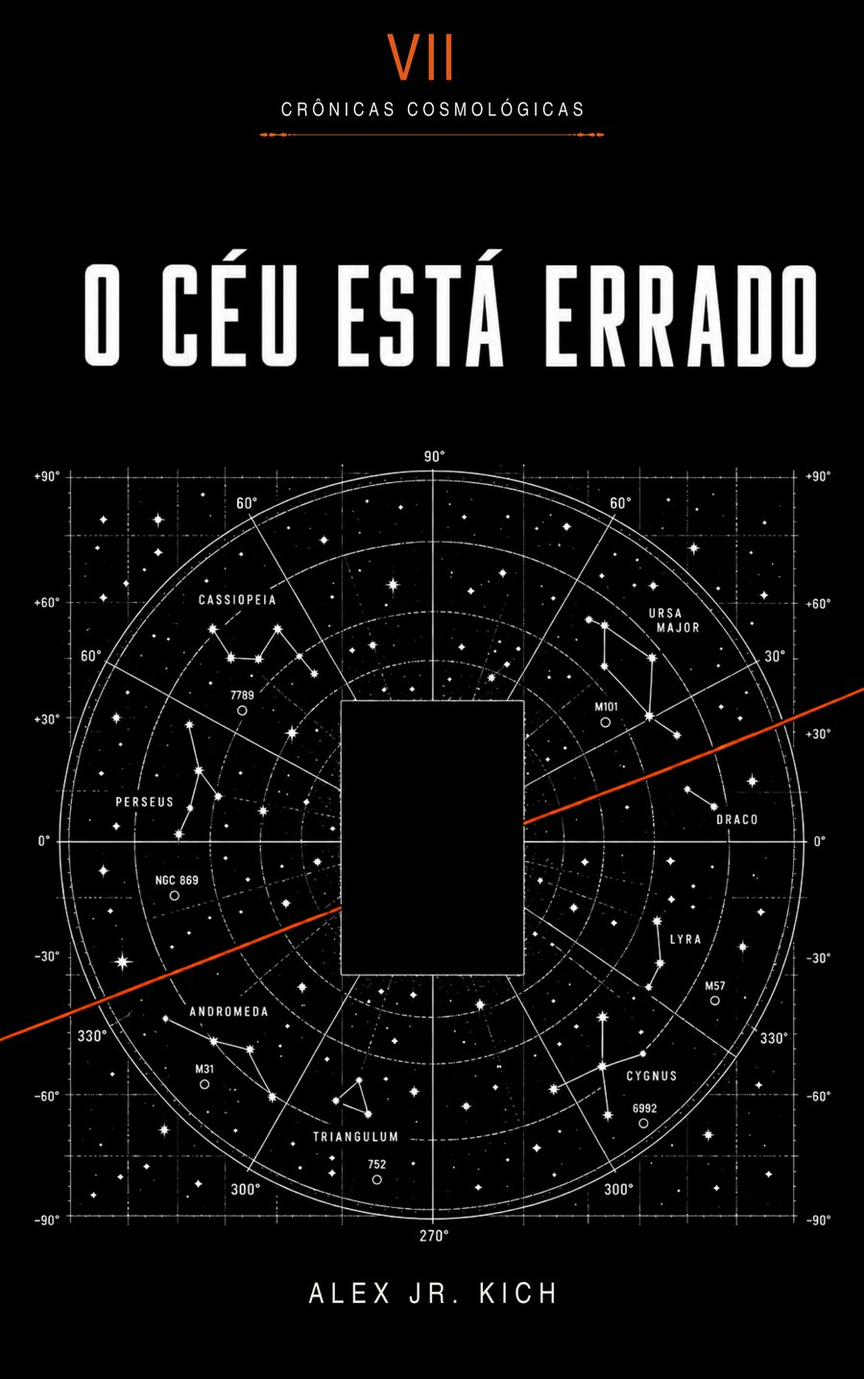
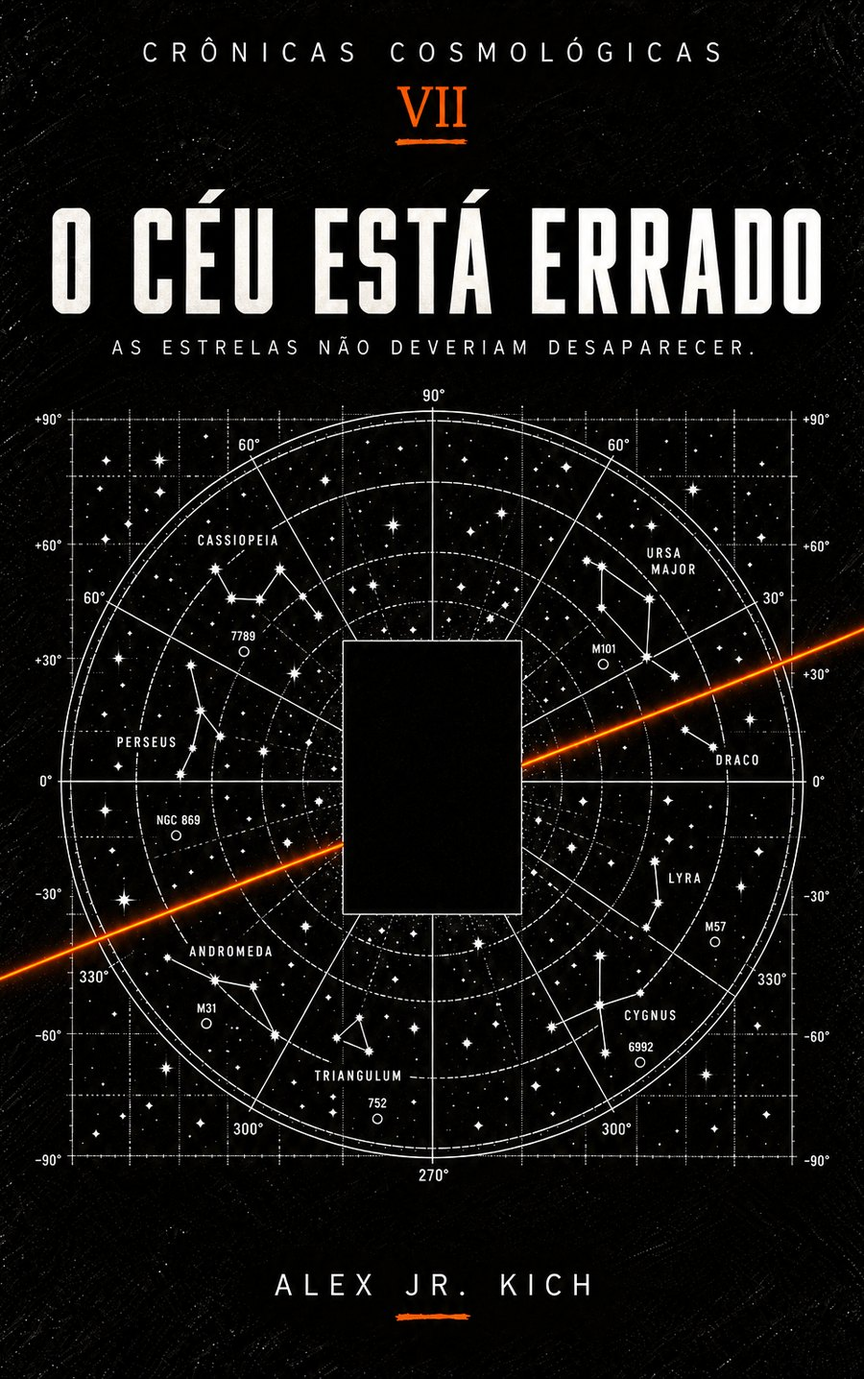
Capas novas V, VII, VIII, IX e X (PT e EN); titulo EN do IX vira NO WORD FOR IT

diff --git a/en/chronicles/nao-tem-a-palavra/index.html b/en/chronicles/nao-tem-a-palavra/index.html
@@ -3,7 +3,7 @@
 <head>
   <meta charset="UTF-8" />
   <meta name="viewport" content="width=device-width, initial-scale=1.0" />
-  <title>THERE IS NO WORD · Cosmological Chronicles · SINAL/RUÍDO</title>
+  <title>NO WORD FOR IT · Cosmological Chronicles · SINAL/RUÍDO</title>
   <meta name="description" content="Nara Guedes finds a word that no longer exists.
 
 The last person able to pronounce it belongs to a language on the verge of disappearing. For linguistics this would already be an urgency: when the las" />
@@ -14,7 +14,7 @@ The last person able to pronounce it belongs to a language on the verge of disap
   <link rel="alternate" hreflang="pt-BR" href="https://sinalruido.com.br/livros/nao-tem-a-palavra/" />
   <link rel="alternate" hreflang="en" href="https://sinalruido.com.br/en/chronicles/nao-tem-a-palavra/" />
   <link rel="alternate" hreflang="x-default" href="https://sinalruido.com.br/livros/nao-tem-a-palavra/" />
-  <meta property="og:title" content="THERE IS NO WORD · Cosmological Chronicles · SINAL/RUÍDO" />
+  <meta property="og:title" content="NO WORD FOR IT · Cosmological Chronicles · SINAL/RUÍDO" />
   <meta property="og:description" content="Nara Guedes finds a word that no longer exists.
 
 The last person able to pronounce it belongs to a language on the verge of disappearing. For linguistics this would already be an urgency: when the las" />
@@ -22,11 +22,11 @@ The last person able to pronounce it belongs to a language on the verge of disap
   <meta property="og:url" content="https://sinalruido.com.br/en/chronicles/nao-tem-a-palavra/" />
   <meta property="og:site_name" content="SINAL/RUÍDO" />
   <meta property="og:locale" content="en_US" />
-  <meta property="og:image" content="https://sinalruido.com.br/livros/nao-tem-a-palavra.jpg" />
+  <meta property="og:image" content="https://sinalruido.com.br/livros/nao-tem-a-palavra-en.jpg" />
   <meta property="og:image:width" content="1200" />
   <meta property="og:image:height" content="630" />
   <meta name="twitter:card" content="summary_large_image" />
-  <meta name="twitter:image" content="https://sinalruido.com.br/livros/nao-tem-a-palavra.jpg" />
+  <meta name="twitter:image" content="https://sinalruido.com.br/livros/nao-tem-a-palavra-en.jpg" />
   <link rel="preconnect" href="https://fonts.googleapis.com" />
   <link rel="preconnect" href="https://fonts.gstatic.com" crossorigin />
   <link rel="stylesheet" href="https://fonts.googleapis.com/css2?family=Oswald:wght@600;700&display=swap" />
@@ -66,13 +66,13 @@ The last person able to pronounce it belongs to a language on the verge of disap
           <a href="/livros/nao-tem-a-palavra/" class="mono" style="color:var(--muted)" hreflang="pt-BR">← Versão em português</a>
         </div>
         <div class="book-sheet__hero">
-          <img class="book-sheet__cover" src="/livros/nao-tem-a-palavra.jpg" alt="Cover of THERE IS NO WORD" width="450" height="720" />
+          <img class="book-sheet__cover" src="/livros/nao-tem-a-palavra-en.jpg" alt="Cover of NO WORD FOR IT" width="450" height="720" />
           <div>
             <span class="badge" style="border-color:var(--signal);color:var(--signal)">IX · In development</span>
-            <h1 style="margin-top:12px">THERE IS NO WORD</h1>
+            <h1 style="margin-top:12px">NO WORD FOR IT</h1>
             <p class="mono" style="margin-top:8px;color:var(--signal)">Alex Jr. Kich</p>
             <p class="book-sheet__tagline" style="margin-top:14px;font-style:italic;color:var(--muted)">Some things disappear when they stop having a name.</p>
-            <div class="book-sheet__synopsis"><p>Nara Guedes finds a word that no longer exists.</p><p>The last person able to pronounce it belongs to a language on the verge of disappearing. For linguistics this would already be an urgency: when the last speaker dies, what is lost is not just a set of sounds but a specific way of organizing the world.</p><p>Then the word produces an impossible effect.</p><p>For 1.7 seconds, something called Valandor opens.</p><p>No one knows whether the word names the place, creates the access, describes a condition or merely coincides with the phenomenon. Nara must work on dangerous ground because any attempt at translation may destroy exactly what it means to understand.</p><p>The problem grows when it becomes clear that certain realities may depend on distinctions that other languages do not have. A lost word may carry a perceptual difference that disappears with it.</p><p>There Is No Word turns language into a physical and philosophical frontier. The unknown is not only beyond instruments. It may be beyond vocabulary.</p></div>
+            <div class="book-sheet__synopsis"><p>Nara Guedes finds a word that no longer exists.</p><p>The last person able to pronounce it belongs to a language on the verge of disappearing. For linguistics this would already be an urgency: when the last speaker dies, what is lost is not just a set of sounds but a specific way of organizing the world.</p><p>Then the word produces an impossible effect.</p><p>For 1.7 seconds, something called Valandor opens.</p><p>No one knows whether the word names the place, creates the access, describes a condition or merely coincides with the phenomenon. Nara must work on dangerous ground because any attempt at translation may destroy exactly what it means to understand.</p><p>The problem grows when it becomes clear that certain realities may depend on distinctions that other languages do not have. A lost word may carry a perceptual difference that disappears with it.</p><p>No Word for It turns language into a physical and philosophical frontier. The unknown is not only beyond instruments. It may be beyond vocabulary.</p></div>
             
           </div>
         </div>
@@ -93,7 +93,7 @@ The last person able to pronounce it belongs to a language on the verge of disap
           <div class="grid grid--3" style="margin-top:14px"><div class="card" style="cursor:default"><h3>Nara Guedes</h3><p style="margin-top:8px">Protagonist. Her task demands rigor and humility because translating is not swapping one word for another. She must recognize when a language holds a distinction her own cannot reproduce.</p></div><div class="card" style="cursor:default"><h3>The last speaker</h3><p style="margin-top:8px">She must not work as a mere key to a riddle. She is a person carrying an entire language in an extreme situation. Her story, memory and will matter as much as the word others wish to record.</p></div><div class="card" style="cursor:default"><h3>Valandor</h3><p style="margin-top:8px">More than a place, it works as a conceptual opening. The brief access shows that language and reality have a relationship the characters do not yet understand.</p></div></div>
         </section>
 
-        <section style="margin-top:32px"><span class="kicker">The human conflict</span><div class="book-sheet__synopsis"><p>At the center of the book is cultural loss. A language can disappear without an explosion, without ruins and without a world headline. When the last person stops speaking, an entire way of distinguishing the real may disappear with them.</p></div></section><section style="margin-top:32px"><span class="kicker">The philosophy behind the book</span><div class="book-sheet__synopsis"><p>There Is No Word builds on a simple idea: naming is not merely putting labels on things.</p><p>Languages divide colors, tenses, relationships and experiences in different ways. Some distinctions exist clearly in one language and require whole sentences in another.</p><p>The novel widens this: what if there are aspects of reality that can only be perceived or accessed when a given linguistic distinction exists?</p><p>The central question is: does something cease to exist when we lose the word to recognize it?</p><p>The book need not answer literally that words create the world. The proposal is more interesting if it stays ambiguous. Perhaps the word is a key. Perhaps it is an instruction. Perhaps it is only the last human instrument able to point correctly at something that was always there.</p><p>The loss of a language, then, stops being merely a loss of vocabulary. It becomes a loss of access.</p></div></section><section style="margin-top:32px"><span class="kicker">Symbols and motifs</span><div class="book-sheet__synopsis"><p>A dictionary entry without a word, a blank line, the last speaker, a voice recording, 1.7 seconds, Valandor, translation and silence.</p></div></section><section style="margin-top:32px"><span class="kicker">Tone</span><div class="book-sheet__synopsis"><p>Linguistic and existential science fiction, with tension built from loss, translation and an extremely brief access to the unknown.</p></div></section>
+        <section style="margin-top:32px"><span class="kicker">The human conflict</span><div class="book-sheet__synopsis"><p>At the center of the book is cultural loss. A language can disappear without an explosion, without ruins and without a world headline. When the last person stops speaking, an entire way of distinguishing the real may disappear with them.</p></div></section><section style="margin-top:32px"><span class="kicker">The philosophy behind the book</span><div class="book-sheet__synopsis"><p>No Word for It builds on a simple idea: naming is not merely putting labels on things.</p><p>Languages divide colors, tenses, relationships and experiences in different ways. Some distinctions exist clearly in one language and require whole sentences in another.</p><p>The novel widens this: what if there are aspects of reality that can only be perceived or accessed when a given linguistic distinction exists?</p><p>The central question is: does something cease to exist when we lose the word to recognize it?</p><p>The book need not answer literally that words create the world. The proposal is more interesting if it stays ambiguous. Perhaps the word is a key. Perhaps it is an instruction. Perhaps it is only the last human instrument able to point correctly at something that was always there.</p><p>The loss of a language, then, stops being merely a loss of vocabulary. It becomes a loss of access.</p></div></section><section style="margin-top:32px"><span class="kicker">Symbols and motifs</span><div class="book-sheet__synopsis"><p>A dictionary entry without a word, a blank line, the last speaker, a voice recording, 1.7 seconds, Valandor, translation and silence.</p></div></section><section style="margin-top:32px"><span class="kicker">Tone</span><div class="book-sheet__synopsis"><p>Linguistic and existential science fiction, with tension built from loss, translation and an extremely brief access to the unknown.</p></div></section>
 
         
 

diff --git a/en/chronicles/index.html b/en/chronicles/index.html
@@ -75,7 +75,7 @@
 
         <section class="books-future" id="chronicles">
           <span class="kicker">Cosmological Chronicles · I–X</span>
-          <div class="books-grid books-grid--covers" style="margin-top:16px"><a class="book-card book-card--cover" href="/en/chronicles/os-deuses-nao-tem-filhos/"><img src="/livros/os-deuses-nao-tem-filhos-en.jpg" alt="Cover of THE GODS HAVE NO CHILDREN" loading="lazy" /><span class="mono">I · In development</span><h3>THE GODS HAVE NO CHILDREN</h3><p>Creating a life gives no one the right to own it.</p><span class="book-card__more mono">Synopsis and details →</span></a><a class="book-card book-card--cover" href="/en/chronicles/a-ultima-testemunha/"><img src="/livros/a-ultima-testemunha-en.jpg" alt="Cover of THE LAST WITNESS" loading="lazy" /><span class="mono">II · In development</span><h3>THE LAST WITNESS</h3><p>Some things only happen when someone is watching.</p><span class="book-card__more mono">Synopsis and details →</span></a><a class="book-card book-card--cover" href="/en/chronicles/amanha-nao-existe/"><img src="/livros/amanha-nao-existe-en.jpg" alt="Cover of TOMORROW DOES NOT EXIST" loading="lazy" /><span class="mono">III · In development</span><h3>TOMORROW DOES NOT EXIST</h3><p>Receiving the answer before the question does not make the choice any easier.</p><span class="book-card__more mono">Synopsis and details →</span></a><a class="book-card book-card--cover" href="/en/chronicles/o-universo-nao-responde/"><img src="/livros/o-universo-nao-responde-en.jpg" alt="Cover of THE UNIVERSE DOES NOT ANSWER" loading="lazy" /><span class="mono">IV · In development</span><h3>THE UNIVERSE DOES NOT ANSWER</h3><p>Perhaps silence is only an answer we have not yet learned to hear.</p><span class="book-card__more mono">Synopsis and details →</span></a><a class="book-card book-card--cover" href="/en/chronicles/o-arquivo-dos-mortos/"><img src="/livros/o-arquivo-dos-mortos.jpg" alt="Cover of THE ARCHIVE OF THE DEAD" loading="lazy" /><span class="mono">V · In development</span><h3>THE ARCHIVE OF THE DEAD</h3><p>Keeping everything about someone does not bring them back.</p><span class="book-card__more mono">Synopsis and details →</span></a><a class="book-card book-card--cover" href="/en/chronicles/antes-de-nascermos/"><img src="/livros/antes-de-nascermos-en.jpg" alt="Cover of BEFORE WE ARE BORN" loading="lazy" /><span class="mono">VI · In development</span><h3>BEFORE WE ARE BORN</h3><p>Some children remember a place where they have never been.</p><span class="book-card__more mono">Synopsis and details →</span></a><a class="book-card book-card--cover" href="/en/chronicles/o-ceu-esta-errado/"><img src="/livros/o-ceu-esta-errado.jpg" alt="Cover of THE SKY IS WRONG" loading="lazy" /><span class="mono">VII · In development</span><h3>THE SKY IS WRONG</h3><p>First the stars disappear. Then the people. The worst part is when no one notices they are missing.</p><span class="book-card__more mono">Synopsis and details →</span></a><a class="book-card book-card--cover" href="/en/chronicles/o-retangulo-negro/"><img src="/livros/o-retangulo-negro.jpg" alt="Cover of THE BLACK RECTANGLE" loading="lazy" /><span class="mono">VIII · In development</span><h3>THE BLACK RECTANGLE</h3><p>Not everything that vanishes was lost.</p><span class="book-card__more mono">Synopsis and details →</span></a><a class="book-card book-card--cover" href="/en/chronicles/nao-tem-a-palavra/"><img src="/livros/nao-tem-a-palavra.jpg" alt="Cover of THERE IS NO WORD" loading="lazy" /><span class="mono">IX · In development</span><h3>THERE IS NO WORD</h3><p>Some things disappear when they stop having a name.</p><span class="book-card__more mono">Synopsis and details →</span></a><a class="book-card book-card--cover" href="/en/chronicles/o-ultimo-sinal/"><img src="/livros/o-ultimo-sinal.jpg" alt="Cover of THE LAST SIGNAL" loading="lazy" /><span class="mono">X · In development</span><h3>THE LAST SIGNAL</h3><p>If one of us arrives first, wait for the other.</p><span class="book-card__more mono">Synopsis and details →</span></a></div>
+          <div class="books-grid books-grid--covers" style="margin-top:16px"><a class="book-card book-card--cover" href="/en/chronicles/os-deuses-nao-tem-filhos/"><img src="/livros/os-deuses-nao-tem-filhos-en.jpg" alt="Cover of THE GODS HAVE NO CHILDREN" loading="lazy" /><span class="mono">I · In development</span><h3>THE GODS HAVE NO CHILDREN</h3><p>Creating a life gives no one the right to own it.</p><span class="book-card__more mono">Synopsis and details →</span></a><a class="book-card book-card--cover" href="/en/chronicles/a-ultima-testemunha/"><img src="/livros/a-ultima-testemunha-en.jpg" alt="Cover of THE LAST WITNESS" loading="lazy" /><span class="mono">II · In development</span><h3>THE LAST WITNESS</h3><p>Some things only happen when someone is watching.</p><span class="book-card__more mono">Synopsis and details →</span></a><a class="book-card book-card--cover" href="/en/chronicles/amanha-nao-existe/"><img src="/livros/amanha-nao-existe-en.jpg" alt="Cover of TOMORROW DOES NOT EXIST" loading="lazy" /><span class="mono">III · In development</span><h3>TOMORROW DOES NOT EXIST</h3><p>Receiving the answer before the question does not make the choice any easier.</p><span class="book-card__more mono">Synopsis and details →</span></a><a class="book-card book-card--cover" href="/en/chronicles/o-universo-nao-responde/"><img src="/livros/o-universo-nao-responde-en.jpg" alt="Cover of THE UNIVERSE DOES NOT ANSWER" loading="lazy" /><span class="mono">IV · In development</span><h3>THE UNIVERSE DOES NOT ANSWER</h3><p>Perhaps silence is only an answer we have not yet learned to hear.</p><span class="book-card__more mono">Synopsis and details →</span></a><a class="book-card book-card--cover" href="/en/chronicles/o-arquivo-dos-mortos/"><img src="/livros/o-arquivo-dos-mortos-en.jpg" alt="Cover of THE ARCHIVE OF THE DEAD" loading="lazy" /><span class="mono">V · In development</span><h3>THE ARCHIVE OF THE DEAD</h3><p>Keeping everything about someone does not bring them back.</p><span class="book-card__more mono">Synopsis and details →</span></a><a class="book-card book-card--cover" href="/en/chronicles/antes-de-nascermos/"><img src="/livros/antes-de-nascermos-en.jpg" alt="Cover of BEFORE WE ARE BORN" loading="lazy" /><span class="mono">VI · In development</span><h3>BEFORE WE ARE BORN</h3><p>Some children remember a place where they have never been.</p><span class="book-card__more mono">Synopsis and details →</span></a><a class="book-card book-card--cover" href="/en/chronicles/o-ceu-esta-errado/"><img src="/livros/o-ceu-esta-errado-en.jpg" alt="Cover of THE SKY IS WRONG" loading="lazy" /><span class="mono">VII · In development</span><h3>THE SKY IS WRONG</h3><p>First the stars disappear. Then the people. The worst part is when no one notices they are missing.</p><span class="book-card__more mono">Synopsis and details →</span></a><a class="book-card book-card--cover" href="/en/chronicles/o-retangulo-negro/"><img src="/livros/o-retangulo-negro-en.jpg" alt="Cover of THE BLACK RECTANGLE" loading="lazy" /><span class="mono">VIII · In development</span><h3>THE BLACK RECTANGLE</h3><p>Not everything that vanishes was lost.</p><span class="book-card__more mono">Synopsis and details →</span></a><a class="book-card book-card--cover" href="/en/chronicles/nao-tem-a-palavra/"><img src="/livros/nao-tem-a-palavra-en.jpg" alt="Cover of NO WORD FOR IT" loading="lazy" /><span class="mono">IX · In development</span><h3>NO WORD FOR IT</h3><p>Some things disappear when they stop having a name.</p><span class="book-card__more mono">Synopsis and details →</span></a><a class="book-card book-card--cover" href="/en/chronicles/o-ultimo-sinal/"><img src="/livros/o-ultimo-sinal-en.jpg" alt="Cover of THE LAST SIGNAL" loading="lazy" /><span class="mono">X · In development</span><h3>THE LAST SIGNAL</h3><p>If one of us arrives first, wait for the other.</p><span class="book-card__more mono">Synopsis and details →</span></a></div>
         </section>
       </div>
     </section></main>

diff --git a/en/chronicles/o-retangulo-negro/index.html b/en/chronicles/o-retangulo-negro/index.html
@@ -22,11 +22,11 @@ Rafael disappeared by a farm gate. Davi disappeared afterward. Now the phenomeno
   <meta property="og:url" content="https://sinalruido.com.br/en/chronicles/o-retangulo-negro/" />
   <meta property="og:site_name" content="SINAL/RUÍDO" />
   <meta property="og:locale" content="en_US" />
-  <meta property="og:image" content="https://sinalruido.com.br/livros/o-retangulo-negro.jpg" />
+  <meta property="og:image" content="https://sinalruido.com.br/livros/o-retangulo-negro-en.jpg" />
   <meta property="og:image:width" content="1200" />
   <meta property="og:image:height" content="630" />
   <meta name="twitter:card" content="summary_large_image" />
-  <meta name="twitter:image" content="https://sinalruido.com.br/livros/o-retangulo-negro.jpg" />
+  <meta name="twitter:image" content="https://sinalruido.com.br/livros/o-retangulo-negro-en.jpg" />
   <link rel="preconnect" href="https://fonts.googleapis.com" />
   <link rel="preconnect" href="https://fonts.gstatic.com" crossorigin />
   <link rel="stylesheet" href="https://fonts.googleapis.com/css2?family=Oswald:wght@600;700&display=swap" />
@@ -66,7 +66,7 @@ Rafael disappeared by a farm gate. Davi disappeared afterward. Now the phenomeno
           <a href="/livros/o-retangulo-negro/" class="mono" style="color:var(--muted)" hreflang="pt-BR">← Versão em português</a>
         </div>
         <div class="book-sheet__hero">
-          <img class="book-sheet__cover" src="/livros/o-retangulo-negro.jpg" alt="Cover of THE BLACK RECTANGLE" width="450" height="720" />
+          <img class="book-sheet__cover" src="/livros/o-retangulo-negro-en.jpg" alt="Cover of THE BLACK RECTANGLE" width="450" height="720" />
           <div>
             <span class="badge" style="border-color:var(--signal);color:var(--signal)">VIII · In development</span>
             <h1 style="margin-top:12px">THE BLACK RECTANGLE</h1>
@@ -99,7 +99,7 @@ Rafael disappeared by a farm gate. Davi disappeared afterward. Now the phenomeno
 
         <nav class="book-sheet__nav" aria-label="Other volumes">
           <a href="/en/chronicles/o-ceu-esta-errado/"><span class="mono">← VII</span><strong>THE SKY IS WRONG</strong></a>
-          <a href="/en/chronicles/nao-tem-a-palavra/" style="text-align:right"><span class="mono">IX →</span><strong>THERE IS NO WORD</strong></a>
+          <a href="/en/chronicles/nao-tem-a-palavra/" style="text-align:right"><span class="mono">IX →</span><strong>NO WORD FOR IT</strong></a>
         </nav>
       </div>
     </section></main>

diff --git a/en/chronicles/o-ultimo-sinal/index.html b/en/chronicles/o-ultimo-sinal/index.html
@@ -22,11 +22,11 @@ After stories about origin, observation, time, silence, death, birth, forgetting
   <meta property="og:url" content="https://sinalruido.com.br/en/chronicles/o-ultimo-sinal/" />
   <meta property="og:site_name" content="SINAL/RUÍDO" />
   <meta property="og:locale" content="en_US" />
-  <meta property="og:image" content="https://sinalruido.com.br/livros/o-ultimo-sinal.jpg" />
+  <meta property="og:image" content="https://sinalruido.com.br/livros/o-ultimo-sinal-en.jpg" />
   <meta property="og:image:width" content="1200" />
   <meta property="og:image:height" content="630" />
   <meta name="twitter:card" content="summary_large_image" />
-  <meta name="twitter:image" content="https://sinalruido.com.br/livros/o-ultimo-sinal.jpg" />
+  <meta name="twitter:image" content="https://sinalruido.com.br/livros/o-ultimo-sinal-en.jpg" />
   <link rel="preconnect" href="https://fonts.googleapis.com" />
   <link rel="preconnect" href="https://fonts.gstatic.com" crossorigin />
   <link rel="stylesheet" href="https://fonts.googleapis.com/css2?family=Oswald:wght@600;700&display=swap" />
@@ -66,7 +66,7 @@ After stories about origin, observation, time, silence, death, birth, forgetting
           <a href="/livros/o-ultimo-sinal/" class="mono" style="color:var(--muted)" hreflang="pt-BR">← Versão em português</a>
         </div>
         <div class="book-sheet__hero">
-          <img class="book-sheet__cover" src="/livros/o-ultimo-sinal.jpg" alt="Cover of THE LAST SIGNAL" width="450" height="720" />
+          <img class="book-sheet__cover" src="/livros/o-ultimo-sinal-en.jpg" alt="Cover of THE LAST SIGNAL" width="450" height="720" />
           <div>
             <span class="badge" style="border-color:var(--signal);color:var(--signal)">X · In development</span>
             <h1 style="margin-top:12px">THE LAST SIGNAL</h1>
@@ -98,7 +98,7 @@ After stories about origin, observation, time, silence, death, birth, forgetting
         
 
         <nav class="book-sheet__nav" aria-label="Other volumes">
-          <a href="/en/chronicles/nao-tem-a-palavra/"><span class="mono">← IX</span><strong>THERE IS NO WORD</strong></a>
+          <a href="/en/chronicles/nao-tem-a-palavra/"><span class="mono">← IX</span><strong>NO WORD FOR IT</strong></a>
           <span></span>
         </nav>
       </div>

diff --git a/en/chronicles/o-arquivo-dos-mortos/index.html b/en/chronicles/o-arquivo-dos-mortos/index.html
@@ -22,11 +22,11 @@ They are not simple medical files, images or databases. There is too much detail
   <meta property="og:url" content="https://sinalruido.com.br/en/chronicles/o-arquivo-dos-mortos/" />
   <meta property="og:site_name" content="SINAL/RUÍDO" />
   <meta property="og:locale" content="en_US" />
-  <meta property="og:image" content="https://sinalruido.com.br/livros/o-arquivo-dos-mortos.jpg" />
+  <meta property="og:image" content="https://sinalruido.com.br/livros/o-arquivo-dos-mortos-en.jpg" />
   <meta property="og:image:width" content="1200" />
   <meta property="og:image:height" content="630" />
   <meta name="twitter:card" content="summary_large_image" />
-  <meta name="twitter:image" content="https://sinalruido.com.br/livros/o-arquivo-dos-mortos.jpg" />
+  <meta name="twitter:image" content="https://sinalruido.com.br/livros/o-arquivo-dos-mortos-en.jpg" />
   <link rel="preconnect" href="https://fonts.googleapis.com" />
   <link rel="preconnect" href="https://fonts.gstatic.com" crossorigin />
   <link rel="stylesheet" href="https://fonts.googleapis.com/css2?family=Oswald:wght@600;700&display=swap" />
@@ -66,7 +66,7 @@ They are not simple medical files, images or databases. There is too much detail
           <a href="/livros/o-arquivo-dos-mortos/" class="mono" style="color:var(--muted)" hreflang="pt-BR">← Versão em português</a>
         </div>
         <div class="book-sheet__hero">
-          <img class="book-sheet__cover" src="/livros/o-arquivo-dos-mortos.jpg" alt="Cover of THE ARCHIVE OF THE DEAD" width="450" height="720" />
+          <img class="book-sheet__cover" src="/livros/o-arquivo-dos-mortos-en.jpg" alt="Cover of THE ARCHIVE OF THE DEAD" width="450" height="720" />
           <div>
             <span class="badge" style="border-color:var(--signal);color:var(--signal)">V · In development</span>
             <h1 style="margin-top:12px">THE ARCHIVE OF THE DEAD</h1>

diff --git a/en/chronicles/o-ceu-esta-errado/index.html b/en/chronicles/o-ceu-esta-errado/index.html
@@ -22,11 +22,11 @@ It is not a shooting star, a forecasting error or a bad night of observation. Ce
   <meta property="og:url" content="https://sinalruido.com.br/en/chronicles/o-ceu-esta-errado/" />
   <meta property="og:site_name" content="SINAL/RUÍDO" />
   <meta property="og:locale" content="en_US" />
-  <meta property="og:image" content="https://sinalruido.com.br/livros/o-ceu-esta-errado.jpg" />
+  <meta property="og:image" content="https://sinalruido.com.br/livros/o-ceu-esta-errado-en.jpg" />
   <meta property="og:image:width" content="1200" />
   <meta property="og:image:height" content="630" />
   <meta name="twitter:card" content="summary_large_image" />
-  <meta name="twitter:image" content="https://sinalruido.com.br/livros/o-ceu-esta-errado.jpg" />
+  <meta name="twitter:image" content="https://sinalruido.com.br/livros/o-ceu-esta-errado-en.jpg" />
   <link rel="preconnect" href="https://fonts.googleapis.com" />
   <link rel="preconnect" href="https://fonts.gstatic.com" crossorigin />
   <link rel="stylesheet" href="https://fonts.googleapis.com/css2?family=Oswald:wght@600;700&display=swap" />
@@ -66,7 +66,7 @@ It is not a shooting star, a forecasting error or a bad night of observation. Ce
           <a href="/livros/o-ceu-esta-errado/" class="mono" style="color:var(--muted)" hreflang="pt-BR">← Versão em português</a>
         </div>
         <div class="book-sheet__hero">
-          <img class="book-sheet__cover" src="/livros/o-ceu-esta-errado.jpg" alt="Cover of THE SKY IS WRONG" width="450" height="720" />
+          <img class="book-sheet__cover" src="/livros/o-ceu-esta-errado-en.jpg" alt="Cover of THE SKY IS WRONG" width="450" height="720" />
           <div>
             <span class="badge" style="border-color:var(--signal);color:var(--signal)">VII · In development</span>
             <h1 style="margin-top:12px">THE SKY IS WRONG</h1>
